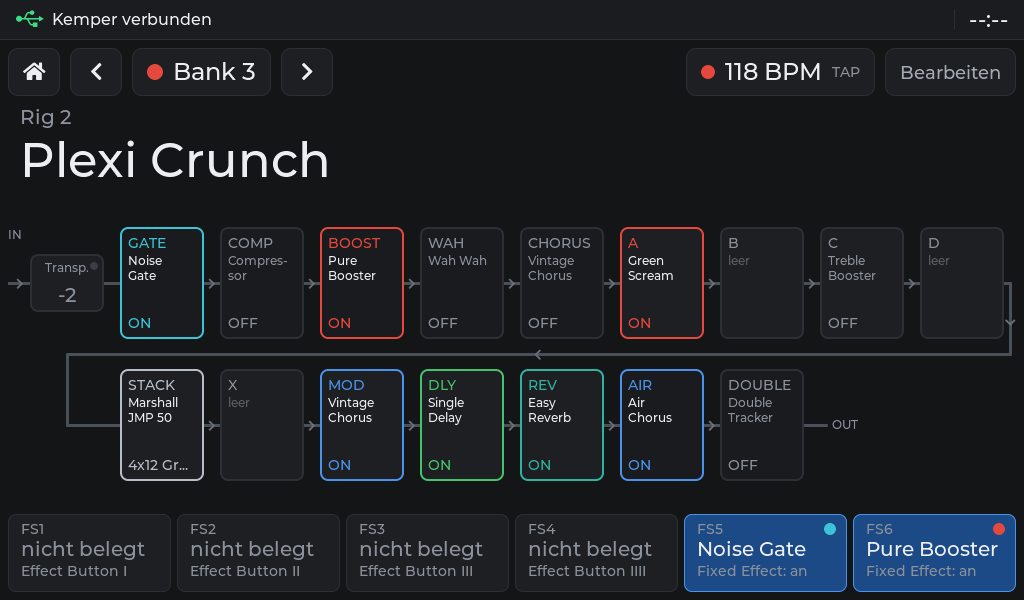
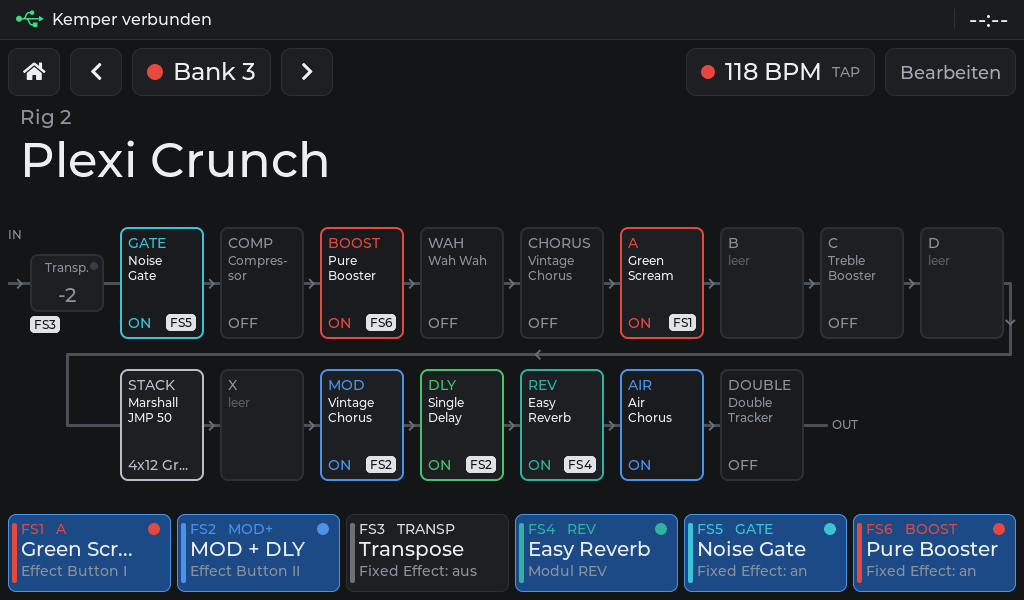
Footswitch-Zuordnung sichtbar: Schilder auf den Effekten, Farben im FS-Feld
- Effektkacheln (Live), Module und Fixed-Effect-Chips (Bearbeiten),
  Transpose und Tempo-Knopf tragen ein Schild "FS5" bzw. "FS1+3", wenn
  ein Footswitch sie schaltet (auch ueber Effect Buttons)
- FS-Felder: Nummer und Kurzname des Effekts in dessen Farbe, Farbstreifen
  links (gedaempft = aus); Effect Button mit einem Modul zeigt den
  Effektnamen

Claude-Session: https://claude.ai/code/session_01EqnHgoeXPUH6FGC7fAxbft

diff --git a/firmware/CM7/UI/ui_common.c b/firmware/CM7/UI/ui_common.c
@@ -306,6 +306,38 @@ lv_obj_t * ui_title_bar(lv_obj_t * body, const char * title, ui_scr_t back_to)
     return row;
 }
 
+lv_obj_t * ui_fs_badge(lv_obj_t * parent)
+{
+    lv_obj_t * b = lv_label_create(parent);
+    lv_label_set_text(b, "");
+    lv_obj_set_style_text_font(b, &lv_font_montserrat_12, 0);
+    lv_obj_set_style_text_color(b, lv_color_hex(UI_COL_BG), 0);
+    lv_obj_set_style_bg_color(b, lv_color_hex(0xdfe3e8), 0);
+    lv_obj_set_style_bg_opa(b, LV_OPA_COVER, 0);
+    lv_obj_set_style_radius(b, 4, 0);
+    lv_obj_set_style_pad_hor(b, 4, 0);
+    lv_obj_set_style_pad_ver(b, 1, 0);
+    lv_obj_add_flag(b, LV_OBJ_FLAG_IGNORE_LAYOUT);
+    lv_obj_remove_flag(b, LV_OBJ_FLAG_CLICKABLE);
+    lv_obj_align(b, LV_ALIGN_BOTTOM_RIGHT, 0, 0);
+    lv_obj_set_hidden(b, true);
+    return b;
+}
+
+void ui_fs_badge_set(lv_obj_t * badge, uint8_t mask)
+{
+    char buf[16] = "FS";
+    uint32_t n = 2;
+    for (uint8_t i = 0; i < KP_FOOTSWITCHES && n + 3 < sizeof(buf); i++) {
+        if (!(mask & (1u << i))) continue;
+        if (n > 2) buf[n++] = '+';
+        buf[n++] = (char)('1' + i);
+    }
+    buf[n] = '\0';
+    lv_label_set_text(badge, buf);
+    lv_obj_set_hidden(badge, mask == 0);
+}
+
 /* ------------------------------------------------------------------------
  * Effektkette
  * --------------------------------------------------------------------- */
@@ -340,6 +372,7 @@ void ui_chain_create(ui_chain_t * c, lv_obj_t * parent, bool compact,
         lv_label_set_long_mode(c->name[i], LV_LABEL_LONG_WRAP);
         c->state[i] = ui_label(t, "", UI_COL_TEXT3,
                                compact ? &lv_font_montserrat_16 : &lv_font_montserrat_20);
+        c->fs[i] = ui_fs_badge(t);
     }
     ui_chain_update(c);
 }
@@ -382,6 +415,7 @@ void ui_chain_update(ui_chain_t * c)
         lv_obj_set_style_text_color(c->slot[i], lv_color_hex(scol), 0);
         lv_obj_set_style_text_color(c->state[i], lv_color_hex(scol), 0);
         lv_obj_set_style_text_color(c->name[i], lv_color_hex(ncol), 0);
+        ui_fs_badge_set(c->fs[i], c->id[i] == KP_CHAIN_STACK ? 0 : kp_fs_mask_module((kp_mod_t)c->id[i]));
     }
 }
 
@@ -519,6 +553,9 @@ void ui_path_create(ui_path_t * p, lv_obj_t * parent, int32_t th)
     lv_obj_set_style_bg_opa(p->tr_led, LV_OPA_COVER, 0);
     lv_obj_align(p->tr_led, LV_ALIGN_TOP_RIGHT, 0, 2);
     lv_obj_remove_flag(p->tr_led, LV_OBJ_FLAG_CLICKABLE);
+    /* Schild unter dem Feld (im Feld waere kein Platz) */
+    p->tr_fs = ui_fs_badge(box);
+    lv_obj_align(p->tr_fs, LV_ALIGN_TOP_LEFT, PATH_TR_X, y1 + PATH_TR_H / 2 + 4);
     p->tr = tr;
 
     for (uint8_t i = 0; i < p->n; i++) {
@@ -551,6 +588,7 @@ void ui_path_create(ui_path_t * p, lv_obj_t * parent, int32_t th)
         p->state[i] = ui_label(t, "", UI_COL_TEXT3, &lv_font_montserrat_14);
         lv_obj_set_size(p->state[i], LV_PCT(100), lv_font_get_line_height(&lv_font_montserrat_14));
         lv_label_set_long_mode(p->state[i], LV_LABEL_LONG_DOT);
+        p->fs[i] = ui_fs_badge(t);
 
         /* Pfeil im Abstand vor der Kachel (nicht vor der ersten einer Zeile) */
         if (col > 0) path_arrow(box, LV_SYMBOL_RIGHT, x - PATH_GAP / 2, row2 ? y2 : y1);
@@ -605,6 +643,8 @@ void ui_path_update(ui_path_t * p)
         lv_obj_set_style_text_color(p->slot[i], lv_color_hex(scol), 0);
         lv_obj_set_style_text_color(p->state[i], lv_color_hex(scol), 0);
         lv_obj_set_style_text_color(p->name[i], lv_color_hex(ncol), 0);
+        ui_fs_badge_set(p->fs[i], p->kind[i] == PE_FIXED ? kp_fs_mask_fixed((kp_fixed_t)p->id[i]) :
+                                  p->kind[i] == PE_MOD   ? kp_fs_mask_module((kp_mod_t)p->id[i]) : 0);
     }
 
     /* Transpose */
@@ -616,6 +656,7 @@ void ui_path_update(ui_path_t * p)
     lv_obj_set_style_text_color(p->tr_val, lv_color_hex(st == 1 ? UI_COL_TEXT : UI_COL_TEXT3), 0);
     lv_obj_set_style_border_color(p->tr, lv_color_hex(st == 1 ? cc : UI_COL_LINE), 0);
     lv_obj_set_style_bg_color(p->tr_led, lv_color_hex(st == 1 ? cc : (st == 0 ? 0x3a3e44 : UI_COL_TILE)), 0);
+    ui_fs_badge_set(p->tr_fs, kp_fs_mask_fixed(KP_FIX_TRANSPOSE));
 }
 
 /* ------------------------------------------------------------------------
@@ -658,6 +699,9 @@ static void fixed_chip(ui_fixed_row_t * f, lv_obj_t * row, kp_fixed_t i)
     f->chip[i] = b;
     f->led[i] = led;
     f->txt[i] = ui_label(b, FIX_SHORT[i], UI_COL_TEXT3, &lv_font_montserrat_14);
+    /* hier im Fluss hinter dem Namen statt unten rechts */
+    f->fs[i] = ui_fs_badge(b);
+    lv_obj_remove_flag(f->fs[i], LV_OBJ_FLAG_IGNORE_LAYOUT);
 }
 
 void ui_fixed_create(ui_fixed_row_t * f, lv_obj_t * parent)
@@ -681,6 +725,7 @@ void ui_fixed_update(ui_fixed_row_t * f)
         lv_obj_set_style_border_width(f->led[i], st < 0 ? 1 : 0, 0);
         lv_obj_set_style_border_color(f->led[i], lv_color_hex(COL_DIM), 0);
         lv_obj_set_style_text_color(f->txt[i], lv_color_hex(st == 1 ? UI_COL_TEXT : UI_COL_TEXT3), 0);
+        ui_fs_badge_set(f->fs[i], kp_fs_mask_fixed((kp_fixed_t)i));
     }
 }
 
@@ -730,6 +775,16 @@ void ui_fsbar_create(ui_fsbar_t * f, lv_obj_t * parent)
         lv_obj_add_flag(f->led[i], LV_OBJ_FLAG_IGNORE_LAYOUT);
         lv_obj_align(f->led[i], LV_ALIGN_TOP_RIGHT, 0, 2);
         lv_obj_remove_flag(f->led[i], LV_OBJ_FLAG_CLICKABLE);
+
+        /* Farbstreifen links: Farbe des Effekts, den dieser FS schaltet */
+        f->stripe[i] = lv_obj_create(b);
+        lv_obj_remove_style_all(f->stripe[i]);
+        lv_obj_set_size(f->stripe[i], 5, 60);
+        lv_obj_set_style_radius(f->stripe[i], 3, 0);
+        lv_obj_set_style_bg_opa(f->stripe[i], LV_OPA_COVER, 0);
+        lv_obj_add_flag(f->stripe[i], LV_OBJ_FLAG_IGNORE_LAYOUT);
+        lv_obj_align(f->stripe[i], LV_ALIGN_LEFT_MID, -9, 0);
+        lv_obj_remove_flag(f->stripe[i], LV_OBJ_FLAG_CLICKABLE);
     }
     ui_fsbar_update(f);
 }
@@ -739,7 +794,18 @@ void ui_fsbar_update(ui_fsbar_t * f)
     kp_fs_info_t in;
     for (uint8_t i = 0; i < KP_FOOTSWITCHES; i++) {
         kp_fs_info(i, &in);
-        lv_label_set_text(f->top[i], in.top);
+        /* "FS5  BOOST": Nummer wie auf dem Schild der Effektkachel */
+        if (in.tag[0]) lv_label_set_text_fmt(f->top[i], "%s   %s", in.top, in.tag);
+        else           lv_label_set_text(f->top[i], in.top);
+        lv_obj_set_style_text_color(f->top[i], lv_color_hex(in.color ? in.color : UI_COL_TEXT3), 0);
+        if (in.color) {
+            lv_obj_set_hidden(f->stripe[i], false);
+            /* aus: gedaempft, an: volle Farbe */
+            lv_obj_set_style_bg_color(f->stripe[i], in.active ? lv_color_hex(in.color)
+                : lv_color_mix(lv_color_hex(in.color), lv_color_hex(UI_COL_TILE), 110), 0);
+        } else {
+            lv_obj_set_hidden(f->stripe[i], true);
+        }
         lv_label_set_text(f->main[i], in.main);
         lv_label_set_text(f->sub[i], in.sub);
         lv_obj_set_style_text_color(f->main[i],

diff --git a/firmware/CM7/UI/kemper_player.c b/firmware/CM7/UI/kemper_player.c
@@ -184,6 +184,10 @@ static const char * const FIX_NAME[KP_FIX_COUNT] = {
     "Transpose", "Noise Gate", "Compressor", "Pure Booster", "Wah Wah", "Vintage Chorus",
     "Air Chorus", "Double Tracker"
 };
+/* Kurznamen wie auf den Kacheln der Live-Ansicht */
+static const char * const FIX_TAG[KP_FIX_COUNT] = {
+    "TRANSP", "GATE", "COMP", "BOOST", "WAH", "CHORUS", "AIR", "DOUBLE"
+};
 static const kp_cat_t FIX_CAT[KP_FIX_COUNT] = {
     KP_CAT_PITCH, KP_CAT_GATE, KP_CAT_COMP, KP_CAT_BOOST, KP_CAT_WAH, KP_CAT_CHORUS,
     KP_CAT_CHORUS, KP_CAT_EQ
@@ -960,6 +964,35 @@ void kp_fs_set_assign(uint8_t idx, kp_fs_assign_t a)
     notify(KP_CHG_SYSTEM);
 }
 
+uint8_t kp_fs_mask_module(kp_mod_t m)
+{
+    uint8_t mask = 0;
+    if (m >= KP_MOD_COUNT) return 0;
+    for (uint8_t i = 0; i < KP_FOOTSWITCHES; i++) {
+        const kp_fs_assign_t a = s.fs_assign[i];
+        if ((a.kind == KP_FSA_MODULE && a.idx == m) ||
+            (a.kind == KP_FSA_FX_BUTTON && (s.rig.fx_btn[a.idx] & (1u << m))))
+            mask |= (uint8_t)(1u << i);
+    }
+    return mask;
+}
+
+uint8_t kp_fs_mask_fixed(kp_fixed_t f)
+{
+    uint8_t mask = 0;
+    for (uint8_t i = 0; i < KP_FOOTSWITCHES; i++)
+        if (s.fs_assign[i].kind == KP_FSA_FIXED && s.fs_assign[i].idx == f) mask |= (uint8_t)(1u << i);
+    return mask;
+}
+
+uint8_t kp_fs_mask_tap(void)
+{
+    uint8_t mask = 0;
+    for (uint8_t i = 0; i < KP_FOOTSWITCHES; i++)
+        if (s.fs_assign[i].kind == KP_FSA_TAP) mask |= (uint8_t)(1u << i);
+    return mask;
+}
+
 const char * kp_fs_assign_name(kp_fs_assign_t a)
 {
     static const char * const BTN[KP_FX_BUTTONS] = {
@@ -989,16 +1022,23 @@ void kp_fs_info(uint8_t idx, kp_fs_info_t * o)
         uint8_t mask = s.rig.fx_btn[a.idx];
         char buf[KP_NAME_LEN] = "";
         uint32_t col = 0;
+        uint8_t n = 0, first = 0;
         for (int m = 0; m < KP_MOD_COUNT; m++) {
             if (!(mask & (1u << m))) continue;
+            if (!n++) first = (uint8_t)m;
             if (buf[0]) strncat(buf, " + ", sizeof(buf) - strlen(buf) - 1);
             strncat(buf, MOD_NAME[m], sizeof(buf) - strlen(buf) - 1);
             if (!col && s.rig.mod[m].type) col = CAT_COLOR[kp_effect_cat(s.rig.mod[m].type)];
         }
-        copy_name(o->main, buf[0] ? buf : "nicht belegt");
+        /* ein Modul: dessen Effektname, mehrere: die Module */
+        if (n == 1 && s.rig.mod[first].type) copy_name(o->main, kp_module_fx_name((kp_mod_t)first));
+        else                                 copy_name(o->main, buf[0] ? buf : "nicht belegt");
+        if (n == 1) snprintf(o->tag, sizeof(o->tag), "%s", MOD_NAME[first]);
+        else if (n > 1) snprintf(o->tag, sizeof(o->tag), "%s+", MOD_NAME[first]);
         o->empty = mask == 0;
         snprintf(o->sub, sizeof(o->sub), "Effect Button %s", FX_BTN_NAME[a.idx]);
         o->active = kp_fx_button_state(a.idx);
+        o->color = col;
         o->led = o->active ? col : 0;
         break;
     }
@@ -1009,7 +1049,9 @@ void kp_fs_info(uint8_t idx, kp_fs_info_t * o)
         snprintf(o->sub, sizeof(o->sub), "Modul %s", MOD_NAME[a.idx]);
         o->empty = !avail || !m->type;
         o->active = !o->empty && m->on;
-        o->led = o->active ? CAT_COLOR[kp_effect_cat(m->type)] : 0;
+        o->color = o->empty ? 0 : CAT_COLOR[kp_effect_cat(m->type)];
+        o->led = o->active ? o->color : 0;
+        snprintf(o->tag, sizeof(o->tag), "%s", MOD_NAME[a.idx]);
         break;
     }
     case KP_FSA_FIXED:
@@ -1017,7 +1059,9 @@ void kp_fs_info(uint8_t idx, kp_fs_info_t * o)
         snprintf(o->sub, sizeof(o->sub), "%s", s.fixed[a.idx] < 0 ? "Fixed Effect" :
                  (s.fixed[a.idx] ? "Fixed Effect: an" : "Fixed Effect: aus"));
         o->active = s.fixed[a.idx] == 1;
-        o->led = o->active ? CAT_COLOR[FIX_CAT[a.idx]] : 0;
+        o->color = CAT_COLOR[FIX_CAT[a.idx]];
+        o->led = o->active ? o->color : 0;
+        snprintf(o->tag, sizeof(o->tag), "%s", FIX_TAG[a.idx]);
         break;
     case KP_FSA_TAP:
         copy_name(o->main, "TAP");

diff --git a/firmware/CM7/UI/ui_common.h b/firmware/CM7/UI/ui_common.h
@@ -57,6 +57,10 @@ lv_obj_t * ui_slider(lv_obj_t * parent, int32_t min, int32_t max, int32_t value)
 lv_obj_t * ui_bank_chip(lv_obj_t * parent, lv_obj_t ** label_out, lv_obj_t ** dot_out);
 void       ui_bank_chip_update(lv_obj_t * label, lv_obj_t * dot);
 lv_obj_t * ui_title_bar(lv_obj_t * body, const char * title, ui_scr_t back_to);
+/* Schild "FS3" bzw. "FS1+3": welche Footswitches etwas schalten (mask: Bit 0 = FS1).
+ * Unten rechts im parent, ausserhalb des Layouts; mask 0 = versteckt. */
+lv_obj_t * ui_fs_badge(lv_obj_t * parent);
+void       ui_fs_badge_set(lv_obj_t * badge, uint8_t mask);
 
 /* ---------------------------------------------------------------------
  * Effektkette (Kacheln A, B, ... STACK ... DLY, REV)
@@ -68,6 +72,7 @@ typedef struct {
     lv_obj_t * slot[KP_CHAIN_MAX];
     lv_obj_t * name[KP_CHAIN_MAX];
     lv_obj_t * state[KP_CHAIN_MAX];
+    lv_obj_t * fs[KP_CHAIN_MAX];
     bool       compact;
 } ui_chain_t;
 
@@ -94,9 +99,11 @@ typedef struct {
     lv_obj_t * slot[UI_PATH_MAX];
     lv_obj_t * name[UI_PATH_MAX];
     lv_obj_t * state[UI_PATH_MAX];
+    lv_obj_t * fs[UI_PATH_MAX];        /* Schild "FSn" */
     lv_obj_t * tr;                     /* Transpose */
     lv_obj_t * tr_led;
     lv_obj_t * tr_val;
+    lv_obj_t * tr_fs;
     lv_point_precise_t pts[6];         /* Linie (muss bestehen bleiben) */
     bool       narrow;                 /* schmale Kacheln (viele Module) */
 } ui_path_t;
@@ -112,6 +119,7 @@ typedef struct {
     lv_obj_t * chip[KP_FIX_COUNT];
     lv_obj_t * led[KP_FIX_COUNT];
     lv_obj_t * txt[KP_FIX_COUNT];
+    lv_obj_t * fs[KP_FIX_COUNT];
 } ui_fixed_row_t;
 
 void ui_fixed_create(ui_fixed_row_t * f, lv_obj_t * parent);
@@ -126,6 +134,7 @@ typedef struct {
     lv_obj_t * main[KP_FOOTSWITCHES];
     lv_obj_t * sub[KP_FOOTSWITCHES];
     lv_obj_t * led[KP_FOOTSWITCHES];
+    lv_obj_t * stripe[KP_FOOTSWITCHES];   /* Farbe des geschalteten Effekts */
 } ui_fsbar_t;
 
 /* Antippen = Footswitch druecken, Halten = Belegung waehlen */

diff --git a/firmware/CM7/UI/ui_live.c b/firmware/CM7/UI/ui_live.c
@@ -20,6 +20,7 @@ static struct {
     lv_obj_t * edited;
     lv_obj_t * bpm;
     lv_obj_t * bpm_led;
+    lv_obj_t * bpm_fs;
     lv_obj_t * slot;
     lv_obj_t * rig;
     ui_path_t  path;
@@ -33,6 +34,7 @@ static void update_tempo(void)
     else             lv_label_set_text(w.bpm, "-- BPM");
     lv_obj_set_style_bg_color(w.bpm_led,
         lv_color_hex(r->tempo_on ? UI_COL_DIST : 0x3a3e44), 0);
+    ui_fs_badge_set(w.bpm_fs, kp_fs_mask_tap());
 }
 
 static void update_rig(void)
@@ -57,7 +59,7 @@ static void update_rig(void)
 static void refresh(uint32_t chg)
 {
     if (chg & (KP_CHG_RIG | KP_CHG_SYSTEM | KP_CHG_NAMES)) update_rig();
-    if (chg & (KP_CHG_TEMPO | KP_CHG_RIG))  update_tempo();
+    if (chg & (KP_CHG_TEMPO | KP_CHG_RIG | KP_CHG_SYSTEM)) update_tempo();
     if (chg & (KP_CHG_MODULES | KP_CHG_RIG | KP_CHG_FIXED | KP_CHG_PARAMS | KP_CHG_SYSTEM))
         ui_path_update(&w.path);
     ui_fsbar_update(&w.fs);
@@ -106,6 +108,8 @@ lv_obj_t * ui_live_build(void)
     lv_obj_move_to_index(w.bpm_led, 0);
     lv_obj_remove_flag(w.bpm_led, LV_OBJ_FLAG_CLICKABLE);
     ui_label(bpm, "TAP", UI_COL_TEXT3, &lv_font_montserrat_14);
+    w.bpm_fs = ui_fs_badge(bpm);
+    lv_obj_remove_flag(w.bpm_fs, LV_OBJ_FLAG_IGNORE_LAYOUT);   /* hinter "TAP" */
 
     lv_obj_t * edit = ui_button(head, "Bearbeiten", &lv_font_montserrat_18, false);
     lv_obj_set_style_text_color(edit, lv_color_hex(UI_COL_TEXT2), 0);

diff --git a/firmware/CM7/UI/kemper_player.h b/firmware/CM7/UI/kemper_player.h
@@ -218,6 +218,8 @@ typedef struct {
     bool     active;             /* hervorgehoben (geladenes Rig, Effekt an) */
     bool     empty;              /* nichts zugewiesen / leer */
     uint32_t led;                /* Farbe der LED, 0 = keine */
+    uint32_t color;              /* Farbe des geschalteten Effekts (auch wenn aus), 0 = keine */
+    char     tag[8];             /* Kurzname des Effekts, z. B. "BOOST", "A+DLY" */
 } kp_fs_info_t;
 
 /* Auf dem Display gespeicherte Einstellungen eines Rig-Platzes */
@@ -351,6 +353,11 @@ kp_fs_mode_t kp_fs_mode(void);
 void        kp_fs_set_mode(kp_fs_mode_t mode);
 void        kp_fs_info(uint8_t idx, kp_fs_info_t * out);
 kp_fs_assign_t kp_fs_assign(uint8_t idx);
+/* Footswitches (Bit 0 = FS1), die ein Modul / einen Fixed Effect / Tap schalten;
+ * Module auch ueber einen zugewiesenen Effect Button */
+uint8_t     kp_fs_mask_module(kp_mod_t m);
+uint8_t     kp_fs_mask_fixed(kp_fixed_t f);
+uint8_t     kp_fs_mask_tap(void);
 void        kp_fs_set_assign(uint8_t idx, kp_fs_assign_t a);
 /* Beschriftung einer Belegung, z. B. "Effect Button II", "Noise Gate" */
 const char *kp_fs_assign_name(kp_fs_assign_t a);

diff --git a/firmware/CM7/UI/ui_edit.c b/firmware/CM7/UI/ui_edit.c
@@ -246,7 +246,7 @@ static void update_tempo(void)
 static void refresh(uint32_t chg)
 {
     if (chg & (KP_CHG_RIG | KP_CHG_NAMES)) update_rig();
-    if (chg & (KP_CHG_MODULES | KP_CHG_RIG)) ui_chain_update(&w.chain);
+    if (chg & (KP_CHG_MODULES | KP_CHG_RIG | KP_CHG_SYSTEM)) ui_chain_update(&w.chain);
     if (chg & (KP_CHG_FIXED | KP_CHG_SYSTEM)) ui_fixed_update(&w.fixed);
     if (chg & (KP_CHG_PARAMS | KP_CHG_RIG)) update_params();
     if (chg & (KP_CHG_TEMPO | KP_CHG_RIG)) update_tempo();

diff --git a/README.md b/README.md
@@ -12,7 +12,7 @@ Eigenbau-Controller für den **Kemper Profiler Player**: 7"-Touch-Display (River
 
 ![Live-Ansicht](docs/images/vorschau_live.png)
 
-Mit Kemper (Level I/II) und bei Level III mit allen Modulen (kleinere Kacheln); FS5 und FS6 schalten hier Fixed Effects:
+Mit Kemper (Level I/II) und bei Level III mit allen Modulen (kleinere Kacheln). Die Schilder „FS1“ … „FS6“ auf den Kacheln zeigen, welcher Footswitch welchen Effekt schaltet; die FS-Felder unten tragen die Farbe ihres Effekts:
 
 ![Live-Ansicht mit Effekten](docs/images/vorschau_live_effekte.png)
 
@@ -85,7 +85,7 @@ Die Oberfläche bildet nur den **Kemper Profiler Player** ab: Banks mit je 5 Rig
 | Ansicht | Was funktioniert |
 |---|---|
 | **Live** | Bank wechseln (Pfeile), Bank antippen → Bank-Übersicht. Signalweg mit allen Effekten als Kacheln: antippen → ein/aus, **halten → Einstellungen** (Module: Werte live vom Kemper; Fixed Effects: Werte **einstellbar** per Regler und −/+). Transpose antippen → ein/aus, halten → Tonhöhe in Halbtönen (−36…+36). Tempo antippen → Tap Tempo, „bearbeitet“-Hinweis wie am Kemper |
-| **Footswitch-Leiste** | Antippen = Footswitch drücken, **halten = Belegung wählen**: jeder FS1–FS6 frei mit Effect Button I–IIII, einem Effekt-Modul, einem Fixed Effect, Tap Tempo oder nichts. Die Belegung gilt **pro Rig-Platz** (Bank/Rig) und wird auf der SD-Karte gespeichert; Rigs ohne eigene Belegung nutzen den Standard (im Dialog „Als Standard“ / „Standard verwenden“). Werksstandard: FS1–4 = Effect Button I–IIII, FS5 = Tap, FS6 frei |
+| **Footswitch-Leiste** | Antippen = Footswitch drücken, **halten = Belegung wählen**: jeder FS1–FS6 frei mit Effect Button I–IIII, einem Effekt-Modul, einem Fixed Effect, Tap Tempo oder nichts. Die Belegung gilt **pro Rig-Platz** (Bank/Rig) und wird auf der SD-Karte gespeichert; Rigs ohne eigene Belegung nutzen den Standard (im Dialog „Als Standard“ / „Standard verwenden“). Werksstandard: FS1–4 = Effect Button I–IIII, FS5 = Tap, FS6 frei. **Zuordnung sichtbar:** Jede Effektkachel (und der Tempo-Knopf), die ein Footswitch schaltet, trägt ein Schild „FS5“ (mehrere: „FS1+3“); das FS-Feld zeigt Nummer und Kurzname des Effekts in dessen Farbe und einen Farbstreifen (gedämpft = aus) |
 | **Bearbeiten** | Startseite (Haus-Symbol), Modul antippen → Effekttyp, Ein/Aus, Zuweisung zu Effect Buttons, Einstellungen; Modul halten → Einstellungen; Fixed Effects wie in Live; RIG/INPUT/AMP/EQ/CAB/OUTPUT → Regler; Rig umbenennen (Bildschirmtastatur); Morph; Tempo ein/aus, ± |
 | **Banks** | Banks seitenweise (je 10), Rig antippen → laden |
 | **Tuner** | Referenz 424–456 Hz, Stummschaltung; Ton und Abweichung kommen vom Kemper |
